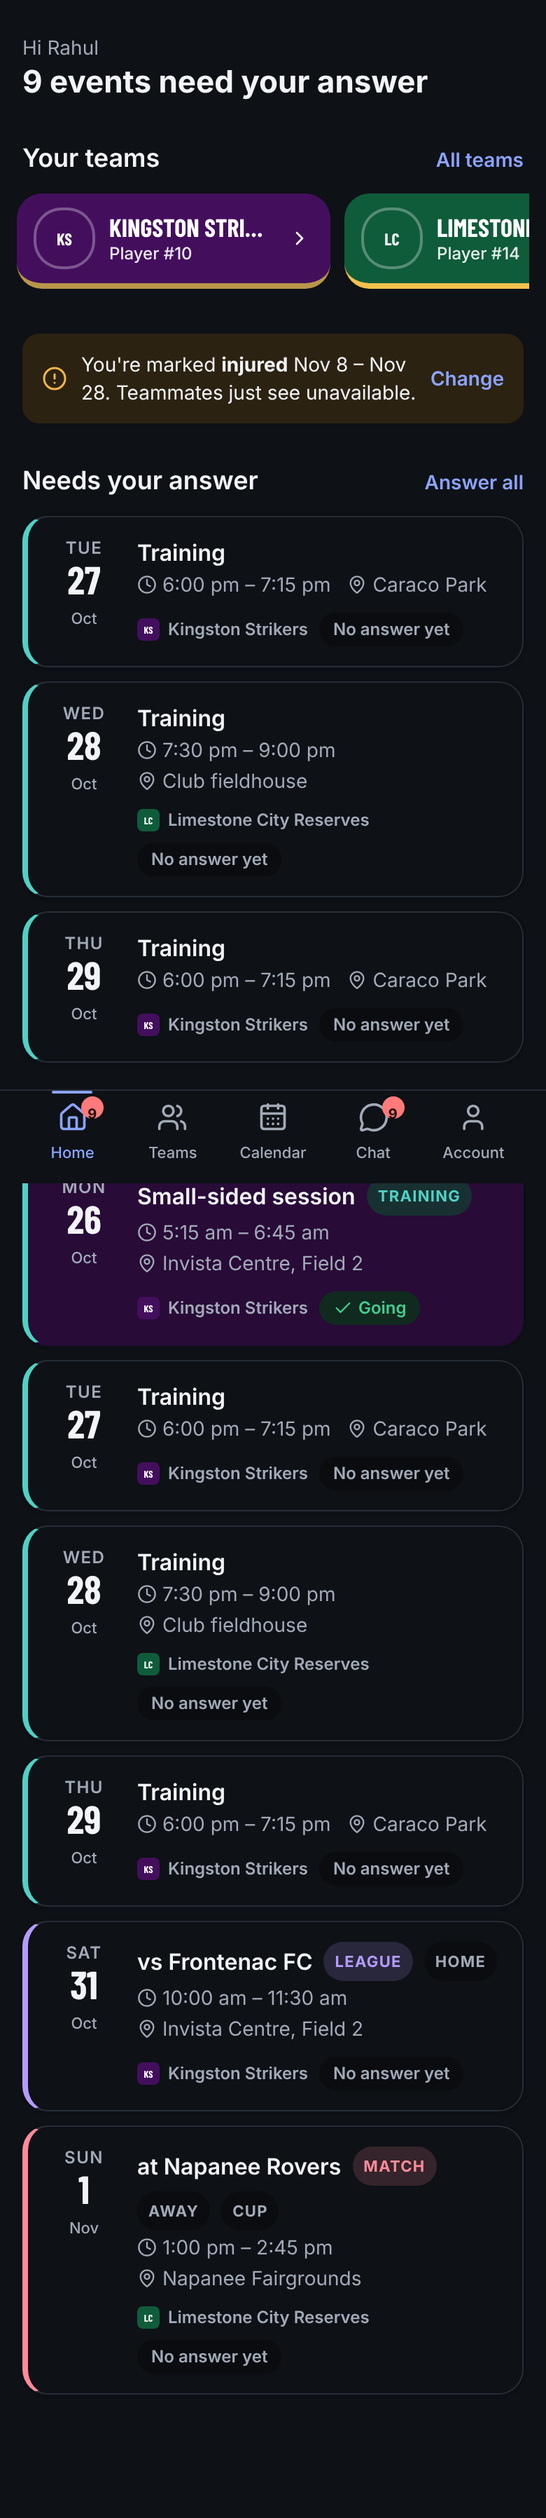
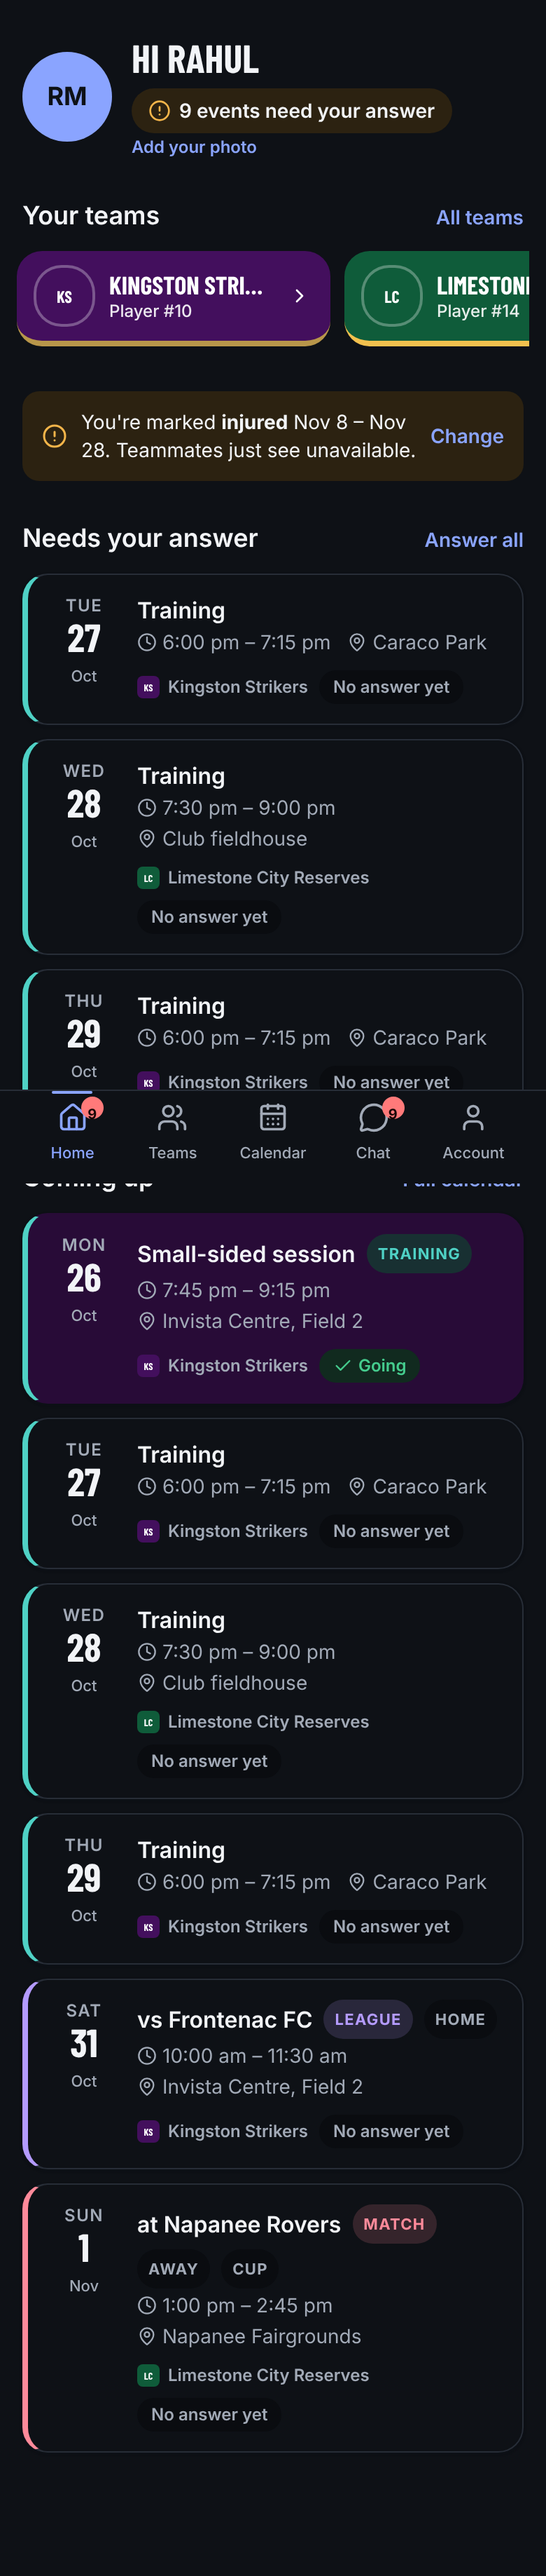
Home: profile header with photo and the one useful status line instead of the big greeting
Claude-Session: https://claude.ai/code/session_01ErGsB6M5fXQxgMj1xA9MPR

diff --git a/src/app/(app)/page.tsx b/src/app/(app)/page.tsx
@@ -9,6 +9,9 @@ import { ButtonLink, EmptyState, SectionTitle } from "@/components/ui";
 import { hatLabels } from "@/lib/data/types";
 import { TeamCrest } from "@/components/ui";
 import { crestUrl } from "@/lib/images";
+import { photoUrl } from "@/lib/data/store";
+import { Avatar } from "@/components/ui";
+import { formatTime, isToday } from "@/lib/time";
 import { tournamentBadges } from "@/lib/tournaments/service";
 
 export const metadata: Metadata = { title: "Home" };
@@ -24,15 +27,35 @@ export default async function HomePage() {
   const staffTeams = teams.filter((t) => t.isStaff);
   return (
     <main id="main" className="gutter mx-auto grid max-w-3xl gap-7 py-6">
-      <header>
-        <p className="text-sm text-muted">Hi {user!.firstName}</p>
-        <h1 className="text-xl font-bold">
-          {pending.length
-            ? `${pending.length} ${pending.length === 1 ? "event needs" : "events need"} your answer`
-            : upcoming.length
-              ? "You're all caught up"
-              : "Welcome"}
-        </h1>
+      {/* Who's signed in and the one thing worth knowing right now: what needs an answer, or what's next. */}
+      <header className="flex items-center gap-3.5">
+        <h1 className="sr-only">Home</h1>
+        <Link href="/account" aria-label="Your account and photo" className="shrink-0 rounded-pill focus-visible:outline-2 focus-visible:outline-offset-2 focus-visible:outline-focus">
+          <Avatar name={`${user.firstName} ${user.lastName}`} size={64} src={photoUrl(user)} />
+        </Link>
+        <div className="min-w-0 flex-1">
+          <p className="truncate font-display text-2xl leading-tight font-bold uppercase">Hi {user.firstName}</p>
+          {pending.length > 0 ? (
+            <a href="#pending-h" className="mt-1 inline-flex min-h-8 items-center gap-1.5 rounded-pill bg-warning-soft px-3 text-sm font-semibold text-fg">
+              <AlertCircle aria-hidden className="size-4 text-warning" />
+              {pending.length} {pending.length === 1 ? "event needs" : "events need"} your answer
+            </a>
+          ) : upcoming[0] ? (
+            <Link href={`/t/${upcoming[0].teamId}/e/${upcoming[0].id}`} className="mt-0.5 block truncate text-sm text-muted">
+              Next: <span className="font-semibold text-fg">{upcoming[0].title || (upcoming[0].opponent ? `vs ${upcoming[0].opponent}` : "Event")}</span> ·{" "}
+              {isToday(upcoming[0].startAt, upcoming[0].tz)
+                ? `today ${formatTime(upcoming[0].startAt, upcoming[0].tz)}`
+                : new Intl.DateTimeFormat("en-CA", { timeZone: upcoming[0].tz, weekday: "short", hour: "numeric", minute: "2-digit" }).format(new Date(upcoming[0].startAt))}
+            </Link>
+          ) : (
+            <p className="mt-0.5 text-sm text-muted">Nothing on your schedule yet</p>
+          )}
+          {!user.photoMaybe && (
+            <Link href="/account" className="mt-0.5 block text-xs font-semibold text-team-ink">
+              Add your photo
+            </Link>
+          )}
+        </div>
       </header>
 
       {sponsorships.length > 0 && (

diff --git a/replica/design/components.md b/replica/design/components.md
@@ -372,3 +372,16 @@ ScoreEntry
   a11y      inputs labelled with team names, steppers are buttons with labels
   used on   T5
 ```
+
+## Home header (S02, 2026-10-26)
+
+```
+Home header
+  layout    avatar 64px (links to Account) + name in display type + one status line; no big greeting headline
+  status    1) pending answers: warning-soft pill "N events need your answer", links to the Needs your answer section
+            2) else the next event: "Next: <title> · today 5:30 pm" (links to the event)
+            3) else "Nothing on your schedule yet"
+  extras    "Add your photo" link while the person has no photo
+  tokens    avatar bg team / initials on-team; pill bg warning-soft, icon warning, text fg; name font display 2xl
+  a11y      visually hidden h1 "Home"; avatar link labelled "Your account and photo"
+```
